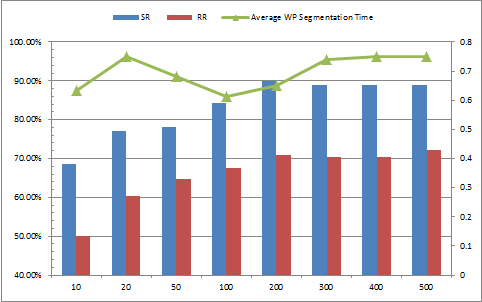
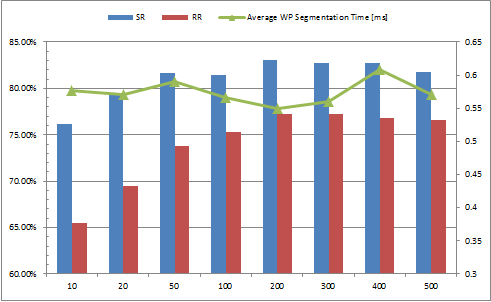
Adding FSP and BSP algorithms. updating results.
git-svn-id: https://arabic-icr.googlecode.com/svn/trunk@234 23b4f04e-482a-c3a5-d353-cb0f12a588d0

diff --git a/Thesis/Segmentation Paper LaTeX/Online Segmentation Paper.tex b/Thesis/Segmentation Paper LaTeX/Online Segmentation Paper.tex
@@ -40,7 +40,7 @@
 
 \IEEEcompsoctitleabstractindextext{
 \begin{abstract}
-character segmentation has an integral role in many Optical Character Recognition (OCR) systems due to the fact that correctly segmented characters are likely to be recognized correctly. However, Correct and efficient segmentation of Arabic text into characters is considered to be an essential problem. The cursive and unconstrained nature of the Arabic script in both printed and handwritten forms anneals the segmentation task. The Arabic script is composed of strokes which represent a single letter, multiple connected letters or diacritics. This paper proposes a novel on-line strokes-level recognition-based segmentation technique of Arabic script. The advantage of our approach is that the most time consuming procedures are performed while the stroke is being scribed. The system consists of three stages. The first stage, which requires the most calculation effort, is performed whilst the stroke is being written and involves  preprocessing of the written stroke, over-segmentation of the written stroke using on topological and directional local features and then recognition-based scoring of adjacent combinations of sub-strokes that induced by the proposed segmentation points. The second stage contains filtering of the topologically invalid segmentation points. The last stage involves several segmentation points selections algorithm which determines the best subset of segmentation points. The system has been designed and tested using the ADAB Database. Promising results were obtained without using context help.
+character segmentation has an integral role in many Optical Character Recognition (OCR) systems due to the fact that correctly segmented characters are likely to be recognized correctly. However, Correct and efficient segmentation of Arabic text into characters is considered to be an essential problem. The cursive and unconstrained nature of the Arabic script in both printed and handwritten forms anneals the segmentation task. The Arabic script is composed of strokes which represent a single letter, multiple connected letters or diacritics. This paper proposes a novel on-line strokes-level recognition-based segmentation technique of Arabic script. The advantage of our approach is that the most time consuming procedures are performed while the stroke is being scribed. The system consists of three stages. The first stage, which requires the most calculation effort, is performed whilst the stroke is being written and involves over-segmentation using topological and directional local features and recognition-based scoring of adjacent combinations of sub-strokes that induced by the proposed segmentation points. The second stage contains filtering of the topologically invalid segmentation points. The last stage involves several segmentation points selections algorithm which determines the best subset of segmentation points. The system has been designed and tested using the ADAB Database. Promising results were obtained without using context help.
 \end{abstract}
 \begin{IEEEkeywords}
 Arabic Handwriting Recognition, Arabic Script Segmentation, Arabic Strokes Segmentation, On-line Text Recognition
@@ -52,13 +52,12 @@ Arabic Handwriting Recognition, Arabic Script Segmentation, Arabic Strokes Segme
 
 \section{Introduction}
 \date
-\IEEEPARstart{H}{andwriting} remains the most used mean of communication and recording of information in the daily life. Therefore, a growing interest in the on-line character recognition field has taken place in the recent years. Handwriting recognition can be categorized into two main fields: off-line and on-line. In the off-line script recognition, a digital image containing text is fed to the computers and the system attempts to convert the spatial representation of the letters into digital symbols \cite{al2011online}. On the contrary, on-line handwriting recognition refers to the situation where the recognition is performed concurrently to the writing process. Approaches for script recognition are usually classified into two types: 1.The holistic approach \cite{biadsy2011segmentation} and 2.the analytic approach \cite{abdulla2008off, sari2002off, Dinges2011, elanwar2012unconstrained}. The holistic approach considers the global properties of the written text while the analytic approach involves segmentation and classification of each part of the text.  In the holistic approach, the recognition system needs to be trained over all words in the dictionary, while it is possible for small vocabulary of words; this is not feasible for large vocabularies (20,000 words or more). Since each word is constructed from a subset of the character alphabet, it is much more efficient to classify words using the analytic approach \cite{elanwar2012unconstrained}.\\
+\IEEEPARstart{H}{andwriting} remains the most used mean of communication and recording of information in the daily life. Therefore, a growing interest in the on-line character recognition field has taken place in the recent years. Handwriting recognition can be categorized into two main fields: off-line and on-line. In the off-line script recognition, a digital image containing text is fed to the computer and the system attempts to convert the spatial representation of the letters into digital symbols \cite{al2011online}. On the contrary, on-line handwriting recognition refers to the situation where the recognition is performed concurrently to the writing process. Approaches for script recognition are usually classified into two types: 1.The holistic approach \cite{biadsy2011segmentation} and 2.the analytic approach \cite{abdulla2008off, sari2002off, Dinges2011, elanwar2012unconstrained}. The holistic approach considers the global properties of the written text while the analytic approach involves segmentation and classification of each part of the text.  In the holistic approach, the recognition system needs to be trained over all words in the dictionary, while it is possible for small vocabulary of words; this is not feasible for large vocabularies (20,000 words or more). Since each word is constructed from a subset of the character alphabet, it is much more efficient to classify words using the analytic approach \cite{elanwar2012unconstrained}.\\
 
-The Recognition of Arabic handwritten script is an important field due to the language widespread. The Arabic language is spoken by more than 230 million people around the world and it is written by more than 100 million people \cite{al2011online}. The Arabic language contains many different dialects used for nearly all everyday speaking situations however the formal standardized language, found mostly in writing or in prepared speech, is common. Approximately 25 languages have adopted the Arabic writing system with some changes. Thus the ability to segment and recognize Arabic script would have a significant academic and economic impact. Nevertheless, the Arabic script recognition is at early stage in relation to the script recognition of Latin, Chinese and Kanji which has been a focus of study in the last decade and achieved an impressive recognition rates. Complexities such as cursiveness, context sensitive shapes and overlapping of the Arabic script causes the OCR of the Arabic languages much more complicated than other languages such as English and Chinese \cite{razzak2010locally}. 
-Character Recognition of the Arabic script is more complicated than other languages such as English and Chinese due to the peculiarity nature of the Arabic script that include cursiveness, context sensitive shapes and overlapping. Also, several technical reasons that include, lack of funds and other utilities such as text database, dictionaries, etc.\cite{zeki2011segmentation}.\\
+The Recognition of Arabic handwritten script is an important field due to the language widespread. The Arabic language is spoken by more than 230 million people around the world and it is written by more than 100 million people \cite{al2011online}. The Arabic language contains many different dialects used for nearly all everyday speaking situations however the formal standardized language, found mostly in writing or in prepared speech, is common. Approximately 25 languages have adopted the Arabic writing system with some changes. Thus the ability to segment and recognize Arabic script would have a significant academic and economic impact. Nevertheless, the Arabic script recognition is at early stage in relation to the script recognition of Latin, Chinese and Kanji which has been a focus of study in the last decade and achieved an impressive recognition rates. 
+Character Recognition of the Arabic script is more complicated than other languages such as English and Chinese due to the peculiarity nature of the Arabic script that include cursiveness, context sensitive shapes and overlapping \cite{razzak2010locally}. Other reasons this lagging include several technical reasons such as lack of funds, text database and dictionaries absence, etc.\cite{zeki2011segmentation}.\\
 
-The Arabic language is written right to left in a cursive manner in both handwritten and printed forms. Most Arabic letters has four main body shapes: Isolated, Medial, Initial and Final, while other letters have two main body shapes: Isolated and Final. An occurrence of two shapes letters inside a word will lead to a split of the body into two or more parts, called Word-Parts (WPs). Within the WP, the letters are connected in both handwritten and printed. Different letters may share the same body and only differ by additional strokes and dots named diacritics as can be seen in figure \ref{fig:same_body_letters}.
-In many cases Arabic WPs, which are connected when printed, are written in multiple strokes in handwritten form as can be seen in figure \ref{fig:kmbot}. \\
+The Arabic language is written right to left in a cursive manner in both handwritten and printed forms. Most Arabic letters has four main body shapes: Isolated, Medial, Initial and Final, while other letters have two main body shapes: Isolated and Final. An occurrence of two shapes letters inside a word will lead to a split of the body into two or more parts, called Word-Parts (WPs). Within the WP, the letters are connected in both handwritten and printed. Different letters may share the same body and only differ by additional strokes and dots named diacritics as can be seen in figure \ref{fig:same_body_letters}. In many cases, Arabic WPs which are connected when printed, are written in multiple strokes in handwritten form as can be seen in figure \ref{fig:kmbot}. \\
 
 \begin{figure}
 \centering
@@ -138,7 +137,7 @@ The goal of this process is to identify HF's in the written text. Once an HF is 
 \item directed right to left 
 \end{enumerate}
 The method described below tries to identify the largest possible HF and disregard small horizontal regions that are usually caused by the imperfection of the digitizer. The horizontal fragment is performed by spotting the start and the end point of the horizontal fragment.
-Once an HF is determined, the medial point of the HF is nominated as a Candidate Point (CP).//
+Once an HF is determined, the medial point of the HF is nominated as a Candidate Point (CP).
 A point $p_{i}$ is named a "horizontal point" if the slope of the line $\overline{p_{i-1}p_{i}}$ if $\frac{\Delta x}{\Delta y}\leq0.6$. This parameter was tunes empirically. The same exact value for this parameter was found independently in \cite{daifallah2009recognition} which strengthen our confidence of our finding.\\
 To reliably calculate the slope value despite the noisy data obtained by the tablet, a preprocessing step is needed. The preprocessing include down-sampling to the half of the sample points of the original trajectory.
 Once a low slope point is recognized, the algorithm sets this point as a HF starting point. Every next low slope point is marked as "Last Seen Horizontal point" Until a high slope point is obtained. The point lastly marked as "Last Seen Horizontal point" is set to be an "Ending Horizontal point".\\
@@ -148,9 +147,6 @@ It is important to note that this process is imperfect and may result in finding
 
 To avoid the case where HF's are over identified, we have employed HF merging method that operates as follows: At every HF identification, we calculate the complexity measure of the stroke ,described in section \ref{subsec:scm}, from the previous HF and if the result is small, the two HF is merged into a single HF.
 The reason for executing this operation while the stroke is being written and not waiting to a later stage is that over identification of HFs may result in extreme over-segmentation, and reduce the performance and accuracy of the selection stage. As can be seen in figure \ref{fig:candidate_in_no_horizontal} this stage may find very small HF that may result from the digitizer imperfections. 
-
-% Candidate point types: valid, invalid.
-% True segmentation point types:  found, Missed.
 
 \begin{figure}
 \centering
@@ -191,21 +187,21 @@ We assume that sub-strokes which represent a letter will achieve better resembla
 A letters classifier that is described in depth in \emph{[my paper]} is used to score the sub-strokes. For the sake of completeness, here we will outline the main idea of the classification system. The classifier uses Shape Context to extract the pattern feature, then Earth movers Distance embedding technique descried in \cite{shirdhonkar2008approximate} to project samples of the Arabic letters to a high dimensional $L_{1}$ space. A combination of Principle Component Analysis (PCA) and Linear Discrimination Analysis (LDA) is used to reduce the samples dimensionality and k-NN are found using k-dtree. The exact resemblance score is determined by a minimum score that is given by a predefined linear combination of the $L_{1}$ distance in the embedding space and Sokoe-Chuba DTW.\\
 
 The classifier contains four databases, one for each letter position. It receive a sequence and a position (Ini, Mid, Fin and Iso).
-As mentioned earlier a stroke spans from the "mouse-down" to the "mouse-up" event. A stroke that contains a complete WP may contain only the following letters position sequence: \{Iso\} or \{$Ini,Mid^{*},Fin$\}.
-However since a stroke could contain a partial WP, the letters of the stroke may have one of the following options, where the  $^{+}$ notation represents more than one occurrence and $^{*}$ notation represents zero or more occurrences.:
+As mentioned earlier a stroke spans from the "mouse-down" to the "mouse-up" event. 
+A stroke may contain a full or a partial WP and it can be composed of the following letter positions: 
 \begin{multicols}{2}
 \begin{itemize}
     \item $Fin$
     \item $Iso$
     \item $Mid^{+}$
-    \item $Ini,Mid^{*},Fin$
     \item $Ini,Mid^{*}$
+    \item $Ini,Mid^{*},Fin$    
     \item $Mid^{+},Fin$
 \end{itemize}
 \end{multicols}
- 
-In order to maximize performance and accuracy, the system should attempt to look for the letter label in the smallest number of databases. 
-To make the following explanation clearer let us define the following: 
+In the above list, the $^{+}$ notation represents one or more occurrences and $^{*}$ notation represents zero or more occurrences.
+
+In order to maximize performance and accuracy, the system should attempt to look for the letter label in the smallest number of databases. To make the following explanation clearer let us define the following: 
 Let $S$ be a sequence which contains $L$ candidate points:\\
 \textbf{Initial Subsequence.} A sub-sequence $S_1^k$ where $ 1< k \leq L+1$ will be given the name \emph{Initial Subsequence} (IS).\\
 \textbf{Medial Subsequence.} A sub-sequence $S_m^k$ where $m \geq 2 \wedge m< k \leq L$ will be name \emph{Medial Subsequence} (MS).\\
@@ -318,7 +314,7 @@ Once the entire stroke is available, a baseline detection algorithm is activated
 Where $Y(\cdot)$ is the y coordinate of the CP and $|I|$ is the length of the interval. 
 Filtering out CPs that are relatively far from the baseline has proven to be very effective in eliminating false CP's that reside on valleys of several letters, such as \RL{q}, \RL{s} and \RL{n}, in the their final and isolated positions. These CPs are usually challenging because they tend to be included in the final set of candidate points if not filtered out. An example can be seen in figure \ref{fig:candidate_in_no_horizontal}, note the candidate point (cyan) inside the last letter \RL{-n}. 
 
-\subsection{Third  Stage: Segmentation Selection}
+\subsection{Third Stage: Segmentation Selection}
 The goal of this phase is to select the best segmentation points set among the candidate segmentation points. It is done by finding a segmentation path in $D$ having best scoring possible. 
  
 A segmentation path $\pi$ with in subsequences scoring matrix $D^{m\times n}$ is a sequence of cells in the following form: $\pi=(1,a_{1}),(a_{1},a_{2}),(a_{2},a_{3}),...,(a_{L},n)$. The path defines a unique segmentation. The segmentation set is the following set:  $\{a_{i}\}_{i=1}^L$.
@@ -333,8 +329,42 @@ The scoring of the path $\pi$ is defined as follows:
 \begin{equation}
 \Pi = \Sigma_{i=1}^{L}{D(\pi_{i})}
 \end{equation}
-  
-Two algorithms are proposed in this work for finding the best segmentation path, i.e. the path $\pi$ with the smallest $\Pi$ possible, which  presumingly, represent the correct segmentation of the stroke $S$. The first algorithm was given the name \emph{Backward-Forward Segmentation Selection} (BFSS) described in Algorithm \ref{alg:bfss}. The output of the algorithm described in is a set, named \emph{Selected Segmentation Points} $SSP$, which contain indexes of the final segmentation points in $KP$. The first point of the stroke (namely, $KP_1$ and $KP_{L+1}$) are added to the output set $SSP$ as can be seen in lines 1 and 2. BFSS operates from the sides of the stroke toward the center. While the set of the unselected candidate points is not empty, in each iteration the algorithm selects two candidate points to include to the $SSP$ set. The selection of a the next candidate point is done by finding the next best sub-stroke, i.e. the cell with the least scoring that start with the current selected segmentation point.
+
+Several segmentation selection algorithms (SSA) are proposed in this work for finding the best segmentation path, i.e. the path $\pi$ with the smallest $\Pi$ possible, which presumingly, represent the correct segmentation of the stroke $S$. The output of all the SSA that will be described is a set, named \emph{Final Segmentation Points} $FSP$, which contain indexes of the final segmentation points in $KP$. The first point of the stroke (namely, $KP_1$ and $KP_n$) not included in FSP.
+The first two proposed algorithm were given the names \emph{Forward Segmentation Selection} (FSS) and \emph{Backward Segmentation Selection} (BSS) which operate is pretty similarly. A pseudo-code of FSS can be seen in Algorithm \ref{alg:fss} below. It operates sequentially on the Candidate points set (CPS). Starting from the first point in the stroke it tries to find the next best segmentation point by selecting the subsequence $S_i^j$ having the best scoring value as can be seen in line 5.  BSS (see Algorithm \ref{alg:bss}) operates similarly, However it starts from the end of the stroke toward the beginning. The weakness of the these two algorithms is that FSS tended to under-segment the suffix of the stroke and BSS tended to under-segment the prefix of the stroke.   
+
+\begin{algorithm}
+$i=1$\;
+$sum=0$\;
+$FSP = \emptyset $\;
+\While{$i<n$}
+{
+	$j = \mathop {\arg \min }\limits_k \left( {D\left( {i,k} \right)} \right)$\;
+	$FSP = FSP \cup \left\{ j \right\}$\;
+	$sum = sum + D\left( {i,j} \right)$\;
+	$i=j$\;
+}
+\caption{Forward Segmentation Selection (FSS)}
+\label{alg:fss}
+\end{algorithm}
+
+\begin{algorithm}
+$i=n$\;
+$sum=0$\;
+$FSP = \emptyset $\;
+\While{$i>1$}
+{
+	$j = \mathop {\arg \min }\limits_k \left( {D\left( {k,i} \right)} \right)$\;
+	$FSP = FSP \cup \left\{ j \right\}$\;
+	$sum = sum + D\left( {i,j} \right)$\;
+	$i=j$\;
+}
+\caption{Backward Segmentation Selection (BSS)}
+\label{alg:bss}
+\end{algorithm}
+
+
+To overcome the aforementioned drawback of FSS and BSS a third SSA was proposed and was given the name \emph{Backward-Forward Segmentation Selection} (BFSS) described in Algorithm \ref{alg:bfss}. It is a combined version of both FSS and BSS. BFSS operates from the sides of the stroke toward the center. While the set of the unselected candidate points is not empty, in each iteration the algorithm selects two candidate points to include to the $SSP$ set. The selection of a the next candidate point is done by finding the next best sub-stroke, i.e. the cell with the least scoring that start with the current selected segmentation point.
 When a candidate point is added to the $SSP$ set "cleaning" operation is done to remove all the preceding candidate points that were not selected. For example, if $KP_{i}$ was selected in the previous iteration and the current iteration $KP_{i+2}$ is selected, all cells related to $KP_{i+1}$ will be set to $\infty$ in the matrix $D$ to avoid this candidate point to be selected in a later iteration. Also all cells that represent a sub-stroke starting from candidate point $KP_i$ or ending in $KP_{i+2}$ will be set to $\infty$. Lines 7-10 handles the the segmentation of the left side of the word and the lines 11-15 handles the right side of the word. This algorithm is an combination of two algorithm we were suggested, the first that operates forward to select the segmentation path and the other is backward algorithm that start from the end of the word toward the start. However, we noted that the forward algorithm tended to under-segment the suffix of the stroke, i.e. missing true segmentation points and the other tended to under-segment the prefix of the stroke.  
 
 \begin{algorithm}
@@ -342,45 +372,45 @@ $cp_{a}=1$\;
 $cp_{b}=n$\;
 $sum = 0$\;
 $CPS = KP\setminus\{1,n\}$\;
-%$SCPS=\{cp_{a},cp_{b}\}$\;
 \While{$CPS \neq \emptyset$}
 {
 	$cp_{a,next} = \mathop {\arg \min}\limits_k (D(cp_a,k))$\;
-	$FP = FP \cup \{cp_{a,next}\}$\;
+	$FPS = FPS \cup \{cp_{a,next}\}$\;
 	$CPS = CPS\setminus\{cp_{a,next}\}$\;
 	$sum = sum + D(cp_a,cp_{a,next})$\;
 	$UpdateMatrix(D,cp_a,cp_{a,next})$\;
 	$cp_{a}=cp_{a,next}$\;
 	
 	$cp_{b,next} = \mathop {\arg \min}\limits_k (D(k,cp_{b,next}))$\;
-	$FP = FP \cup \{cp_{b,next}\}$\;
+	$FPS = FPS \cup \{cp_{b,next}\}$\;
 	$CPS = CPS\setminus\{cp_{b,next}\}$\;
 	$sum = sum + D(cp_{b,next},cp_b)$\;
 	$UpdateMatrix(D,cp_{b,next},cp_b)$\;
 	$cp_{b}=cp_{b,next}$\;
 }
-\caption{Backward-Forward Segmentation Selection (BFSS). CPS stands for \emph{Candidate Points Set} and FP stands for \emph{Final Points}. }
+\caption{Backward-Forward Segmentation Selection (BFSS). CPS stands for \emph{Candidate Points Set}. }
 \label{alg:bfss}
 \end{algorithm}
   
-The second algorithm, that was given the name \emph{Greedy Segmentation Selection} (GSS) operates completely differently. In every iteration, the cell with the best scoring is selected, namely, the selected cell represents a sub-sequence that has the best resemblance for a letter, thus this subsequence must be included in the final segmentation. If cell $D(i,j)$ was selected, both the candidate point $CP_{i}$ and $CP_{j}$ is added to the final set and every segmentation point between $i$ and $j$ are removed from the scoring matrix. 
+The forth SSA, that was given the name \emph{Greedy Segmentation Selection} (GSS), operates completely in a different way. In every iteration, the cell with the best scoring is selected, namely, the selected cell represents a sub-sequence that has the best resemblance for a letter, thus this subsequence must be included in the final segmentation. If cell $D(i,j)$ was selected, both the candidate point $CP_{i}$ and $CP_{j}$ is added to the final set and every segmentation point between $i$ and $j$ are removed from the scoring matrix. 
 
 \begin{algorithm}
 $FP=\emptyset$\;
 \While{$CPS \neq \emptyset$}
 {
 	${s,e} = \mathop {\arg \min}(D)$\;
-	$FP = FP \cup \{s,e\}$\;
+	$FPS = FPS \cup \{s,e\}$\;
 	$sum = sum + D(s,e)$\;
 	$UpdateMatrix(D,s,e)$\;
 	$CPS = CPS\setminus\{s,e\}$\;
 }
 $FP=FP\setminus\{1,n\}$\;
+
 \caption{Greedy Segmentation Selection (GSS)}
 \label{alg:gss}
 \end{algorithm}
-BFSS and GSS are performed independently for each stroke. The $FP$ set with the lower $\Pi$ is selected.
 
+BFSS and GSS are performed independently for each stroke. The $FPS$ set with the lower $\Pi$ is selected. Evaluations of the mentioned SSA is provided in \ref{subsec:ssa_performance}. 
 
 \emph{TODO: show several images of the segmentation process passing through the nomination, the filtering and finally the segmentation selection.}
 
@@ -390,7 +420,7 @@ In other studies on segmentation, visually inspection usually take place to vali
 For each segmentation point found by our system, for it to be count as a true positive, the information measure between the real segmentation point (marked by an expert human) and the segmentation point found by the system should less a predefined threshold.
 Although, this validation process was tested on several sets and found to be highly accurate, it was used only on the validation set. The validation set was used to evaluate the performance of the different algorithms and for setting the parameters and threshold values of the system. The validity of each segmentation proposed by the system was reviewed by human expert.  
 
-\subsection{Subsequence Complexity measure }
+\subsection{Subsequence Complexity measure}
 \label{subsec:scm}
 This measure gives a numerical representation of the captured complexity of a sequence. It can be thought of as the amount of information stored in a sub-sequence or the complexity of the sequence. The more curved the sequence is the higher is the complexity value. We use this measure twice in this work. In the HF identification process as discussed earlier and also in the selected segmentation points validation step which we will discuss later. In the later, we need to determine if the candidate point found by the algorithm and the segmentation point that was identified by a human expert reside on the relatively same straight line over the stroke. The idea is demonstrated in figure \ref{fig:sequence_complexity}.
 A preprocessing is done to ensure this measure is invariant and unaffected of infinitesimal warpings so that it will give a uniform measure,. 
@@ -430,7 +460,8 @@ No information relating the strokes to letters or to word-parts is provided, thu
 
 \section{Experimental Results}
 \label{sec:results}
-This section provides all the relevant experimental results that were conducted by using the proposed technique. Since the system attempts to continuously segments the stroke while it is being written, points of the trajectory were inputed to the system one at a time. Our system is implemented using the Matlab environment. Comparing the performance of our approach to other works done in the field is not a simple task. The complexity of such task is not only the different experimental settings, databases and methodology but also the different parameters that are used to display the work results. For this reason,  to make our results more clear we have chosen to display our results from different points of view. The large test sample and the usage of the ADAB database and not a own collected database give our results further firmness. In table \ref{table:general_stats} we provide basic statistics of our sample set. We made sure that the samples taken to extract letters samples for the training of the scoring system were not used in the sample set.
+This section provides all the relevant experimental results that were conducted by using the proposed technique. In order to simulate the the continuous writing process of the stroke, points of the trajectory were inputed to the system one at a time. Our system is implemented using the Matlab environment. Comparing the performance of our approach to other works done in the field is not a simple task. The complexity of such task is not only the different experimental settings, databases and methodology but also the different parameters that are used to display the work results. For this reason, to make our results more clear we have chosen to display our results from two points of view. The first is the WP and the second is the segmentation point. For the WP, we have measured the Segmentation rate (SR) and the Recognition rate (RR). A Segmentation point can be considered one of the following: 1. Valid (true positive): the segmentation point is identified in the correct location. 2. Invalid (false positive): the segmentation point was identified in an incorrect place. 3. Missing: No segmentation point was identified between two successive letters.
+The large test sample and the usage of the ADAB database and not a own collected database give our results further firmness. In table \ref{table:general_stats} we provide basic statistics of our sample set. We made sure that the samples taken to extract letters samples for the training of the scoring system were not used in the sample set.
 
 \begin{table}[h]
 \caption{General statistics}
@@ -452,12 +483,12 @@ A correctly segmented stroke is the case when all the letters in the stroke are 
 The results shown in table \ref{table:wp_results} summarizes the system performance in the WP level and in table \ref{table:sp_results} we provide experimental results in the segmentation points level. It is apparent that the results are promising by the high WP segmentation rate and the high precision and recall values.
 
 \begin{table}[h]
-\caption{Word-Parts Results}
+\caption{WP Results}
 \begin{tabular}{ | c | c | }
   \hline
-  Segmentation Rate &  83.5\% \\ 
+  Segmentation Rate &  83\% \\ 
  \hline
-  Recognition Rate &  77.6\% \\ 
+  Recognition Rate &  78\% \\ 
  \hline
   Average Time & 0.64 [sec] \\
 \hline
@@ -479,11 +510,11 @@ The results shown in table \ref{table:wp_results} summarizes the system performa
   \hline
   Total number of Segmentation point & 1081 \\
   \hline
-  Valid Suggested Point (True Positive) & 922 \\
+  Valid SP (True Positive) & 922 \\
   \hline
-  Invalid Suggested Point (False Positive) & 119 \\
+  Invalid SP (False Positive) & 119 \\
   \hline
-  Missing (False Negative) & 159 \\
+  Missing SP (False Negative) & 159 \\
   \hline                                    
   Precision & 88.6\% \\ 
  \hline
@@ -494,7 +525,7 @@ The results shown in table \ref{table:wp_results} summarizes the system performa
 \label{table:sp_results} 
 \end{table}
 
-The absolute majority of the false negative segmentation points were nominated to be a candidate points. A small number were filtered out in the filtering phase but most of them were not selected by the segmentation selection algorithm. Thus, to achieve the best results we have developed and combined several segmentation selection approaches.
+The absolute majority of the false negative segmentation points were nominated to be a candidate points. A small number were filtered out in the filtering phase but most of them were not selected by the SSA. Thus, to achieve the best results we have developed and combined several segmentation selection approaches.
 
 \subsection{Analysis}
 In this section we will discuss some common cases which were not segmented correctly. In part of these cases we did find solutions and some cases were left for future studies to face. 
@@ -521,11 +552,11 @@ Without the additional strokes, there is no way to differentiate between the mai
 \begin{figure}
 \centering
 \includegraphics[width=5cm]{./figures/oversegmentation_s}
-\caption{Over-segmentation in the letter \RL{s}. These happens since this letter is very similar to the appearance to a combination of two consecutive \RL{b} (\RL{-bb-}) letters and only can be identified from the context and using the additional strokes.}
+\caption{Over-segmentation in the letter \RL{-s-}. These happens since this letter is very similar to the appearance to a combination of two consecutive \RL{-b-} letters and only can be identified from the context and using the additional strokes.}
 \label{fig:oversegmentation_s}
 \end{figure}
 
-We have noticed that our system tends to over-segment the letter \RL{-m-} when written in the form seen in figure \ref{fig:oversegmentation_m}. The reason for that the segmentation selection algorithm includes the two CPs in the final segmentation set is that the letter in this form can be seen as a combination of a very frequent form of the letter \RL{-m-} and the letter \RL{-b-}. This issue can be solved by enhancing the filtering phase to eliminate CPs that are found in a loop.  
+We have noticed that our system tends to over-segment the letter \RL{-m-} when written in the form seen in figure \ref{fig:oversegmentation_m}. The reason for that the SSA includes the two CPs in the final segmentation set is that the letter in this form can be seen as a combination of a very frequent form of the letter \RL{-m-} and the letter \RL{-b-}. This issue can be solved by enhancing the filtering phase to eliminate CPs that are found in a loop.  
 
 \begin{figure}
 \centering
@@ -553,13 +584,13 @@ Over segmentation can be caused also from typing a letter in unusual form where 
 \subsubsection{Under-segmentation}
 Under-segmentation may results mainly in two cases:
 \begin{enumerate}
-\item No point is get nominated in the horizontal fragment
-\item Nominated but not selected.
+\item No candidate point is get nominated in the HF.
+\item Candidate point is nominated but not selected by the SSA.
 \end{enumerate}
 
 The first mainly results from letter pairs that do not contain horizontal joint between them; this issue is partially solved by extending the notion of a letters to include such pairs of letters. For example the pair \RL{lm} and \RL{l.h}, these letters may have 2-4 positions. \\
 
-The second may result from nomination of a candidate point on correct horizontal segment but in a late fraction of the segmentation fragment which result in a low scoring and thus not being selected by the segmentation selection algorithm. This issue usually occurs in the letter \RL{w} in its final position (Figure \ref{fig:undersegmentation_w}).
+The second may result from nomination of a candidate point on correct horizontal segment but in a late fraction of the segmentation fragment which result in a low scoring and thus not being selected by the SSA. This issue usually occurs in the letter \RL{w} in its final position (Figure \ref{fig:undersegmentation_w}).
 
 \begin{figure}[h]
 \centering
@@ -569,9 +600,11 @@ The second may result from nomination of a candidate point on correct horizontal
 \end{figure}
 
 
-\subsection{The effect of the number of sample on the segmentation and recognition results}
-One may assume that the more samples the system is trained on, the better is the recognition results. This is partially true when there are more than two classes, and when the differences between the number of samples per class is gets bigger.
-We will show that the maximal number of letters does not affect much the segmentation rate and recognition rate, the graph will convergence after 200 samples per letter. In figure \ref{fig:num_letter_impact} it is clearly evident that there is a point where allowing more samples per class may decrease the accuracy of the system.
+\subsection{Sample set size}
+Our letters sample set contains all letters in all its possible positions. Some letters are more frequent and more in use in general in the Arabic language, in general and in the ADAB database in particular. Thus our sample set of letters is not balanced.
+On the one hand it is an advantage since the letters underlying distribution will reflect the priory probability of a letter form appearance.
+On the other hand, When the imbalance gets too much big, it may negatively affect the recognition results or if allowing more samples in an imbalanced manner it may not improve the recognition results.
+In the following experiment we allowed an increasing maximal number of samples per a letter position to see the affect on the segmentation and recognition rates of the system as well as on its time performance. Increasing the maximal number of samples per class (letter position) increases the imbalance between the classes. The graph in figure \ref{fig:num_letter_impact} shows that the maximal number of letters does not affect much the segmentation rate and recognition rate. The graph convergences after 200 samples per letter.  It is also evident that there is a point where allowing more samples per class may decrease the accuracy of the system.
 
 \begin{figure}[h]
 \centering
@@ -581,23 +614,28 @@ We will show that the maximal number of letters does not affect much the segment
 \end{figure}
 
 
-\subsection{Segmentation selection algorithms performance}
+\subsection{SSA performance}
+\label{subsec:ssa_performance}
+As can be seen in table \ref{table:ss_algorithms_results} the SSA has a crucial affect on the system performance. We tried to combine two SSA by running both SSA and select the segmentation with the smallest scoring divided by the size of $FSP$ to prevent giving superiority to segmentations with less segmentation points. Combination of two algorithms is symboled by $\oplus$.
 
 \begin{table}[h]
-\caption{Performance of each Segmentation selection algorithm}
-\begin{tabular}{ | c | c | c | }
+\caption{SSA Performance}
+\begin{tabular}{ | c | c | c | c | c |}
 \hline
-Segmentation Selection & WP Segmentation & WP Recognition \\
-Algorithm & Rate & Rate \\
+SSA & WP SR & WP RR & SP Precision & SP Recall\\
 \hline                 
-  FSS & 81.5\% & 70.9\% \\ 
+  FSS & 76\% & 70\% & 85\% & 78\% \\ 
   \hline
-  BSS & 78.4\% &  37.5\% \\ 
- \hline
- GSS & 77.1\% & 68.7\% \\ 
- \hline
- FBSS & 83.34\% & 73.74\% \\
-\hline
+  BSS & 79\% &  73\% & 84\%& 81\% \\
+  \hline
+  BFSS & 78\% & 72\% & 84\% & 80\%\\ 
+  \hline
+  GSS & 80\% & 74\% & 81\% & \bf{94}\% \\  
+  \hline
+  FSS$\oplus$BSS & \bf{82}\% & \bf{76}\% & \bf{89}\% & 82\%\\  
+  \hline
+  GSS$\oplus$BFSS & 81\% & 75\% & 83\% & 90\% \\
+  \hline
 \end{tabular}
 \centering
 \label{table:ss_algorithms_results} 
@@ -610,7 +648,7 @@ Handle the following:
 	\item Effectiveness and accuracy of the filtering stage. show how many segmentation point were filtered out in the filtering.
 	\item See table 3 in \cite{eraqi2012new}, if our results are better or close to the best results, this table can be added.
 	\item show some images of correctly segmented words.
-	\item show valid and invalid segmentation points before the last phase.
+	\item statistics in the stroke level.
 \end{itemize}
 }
 
